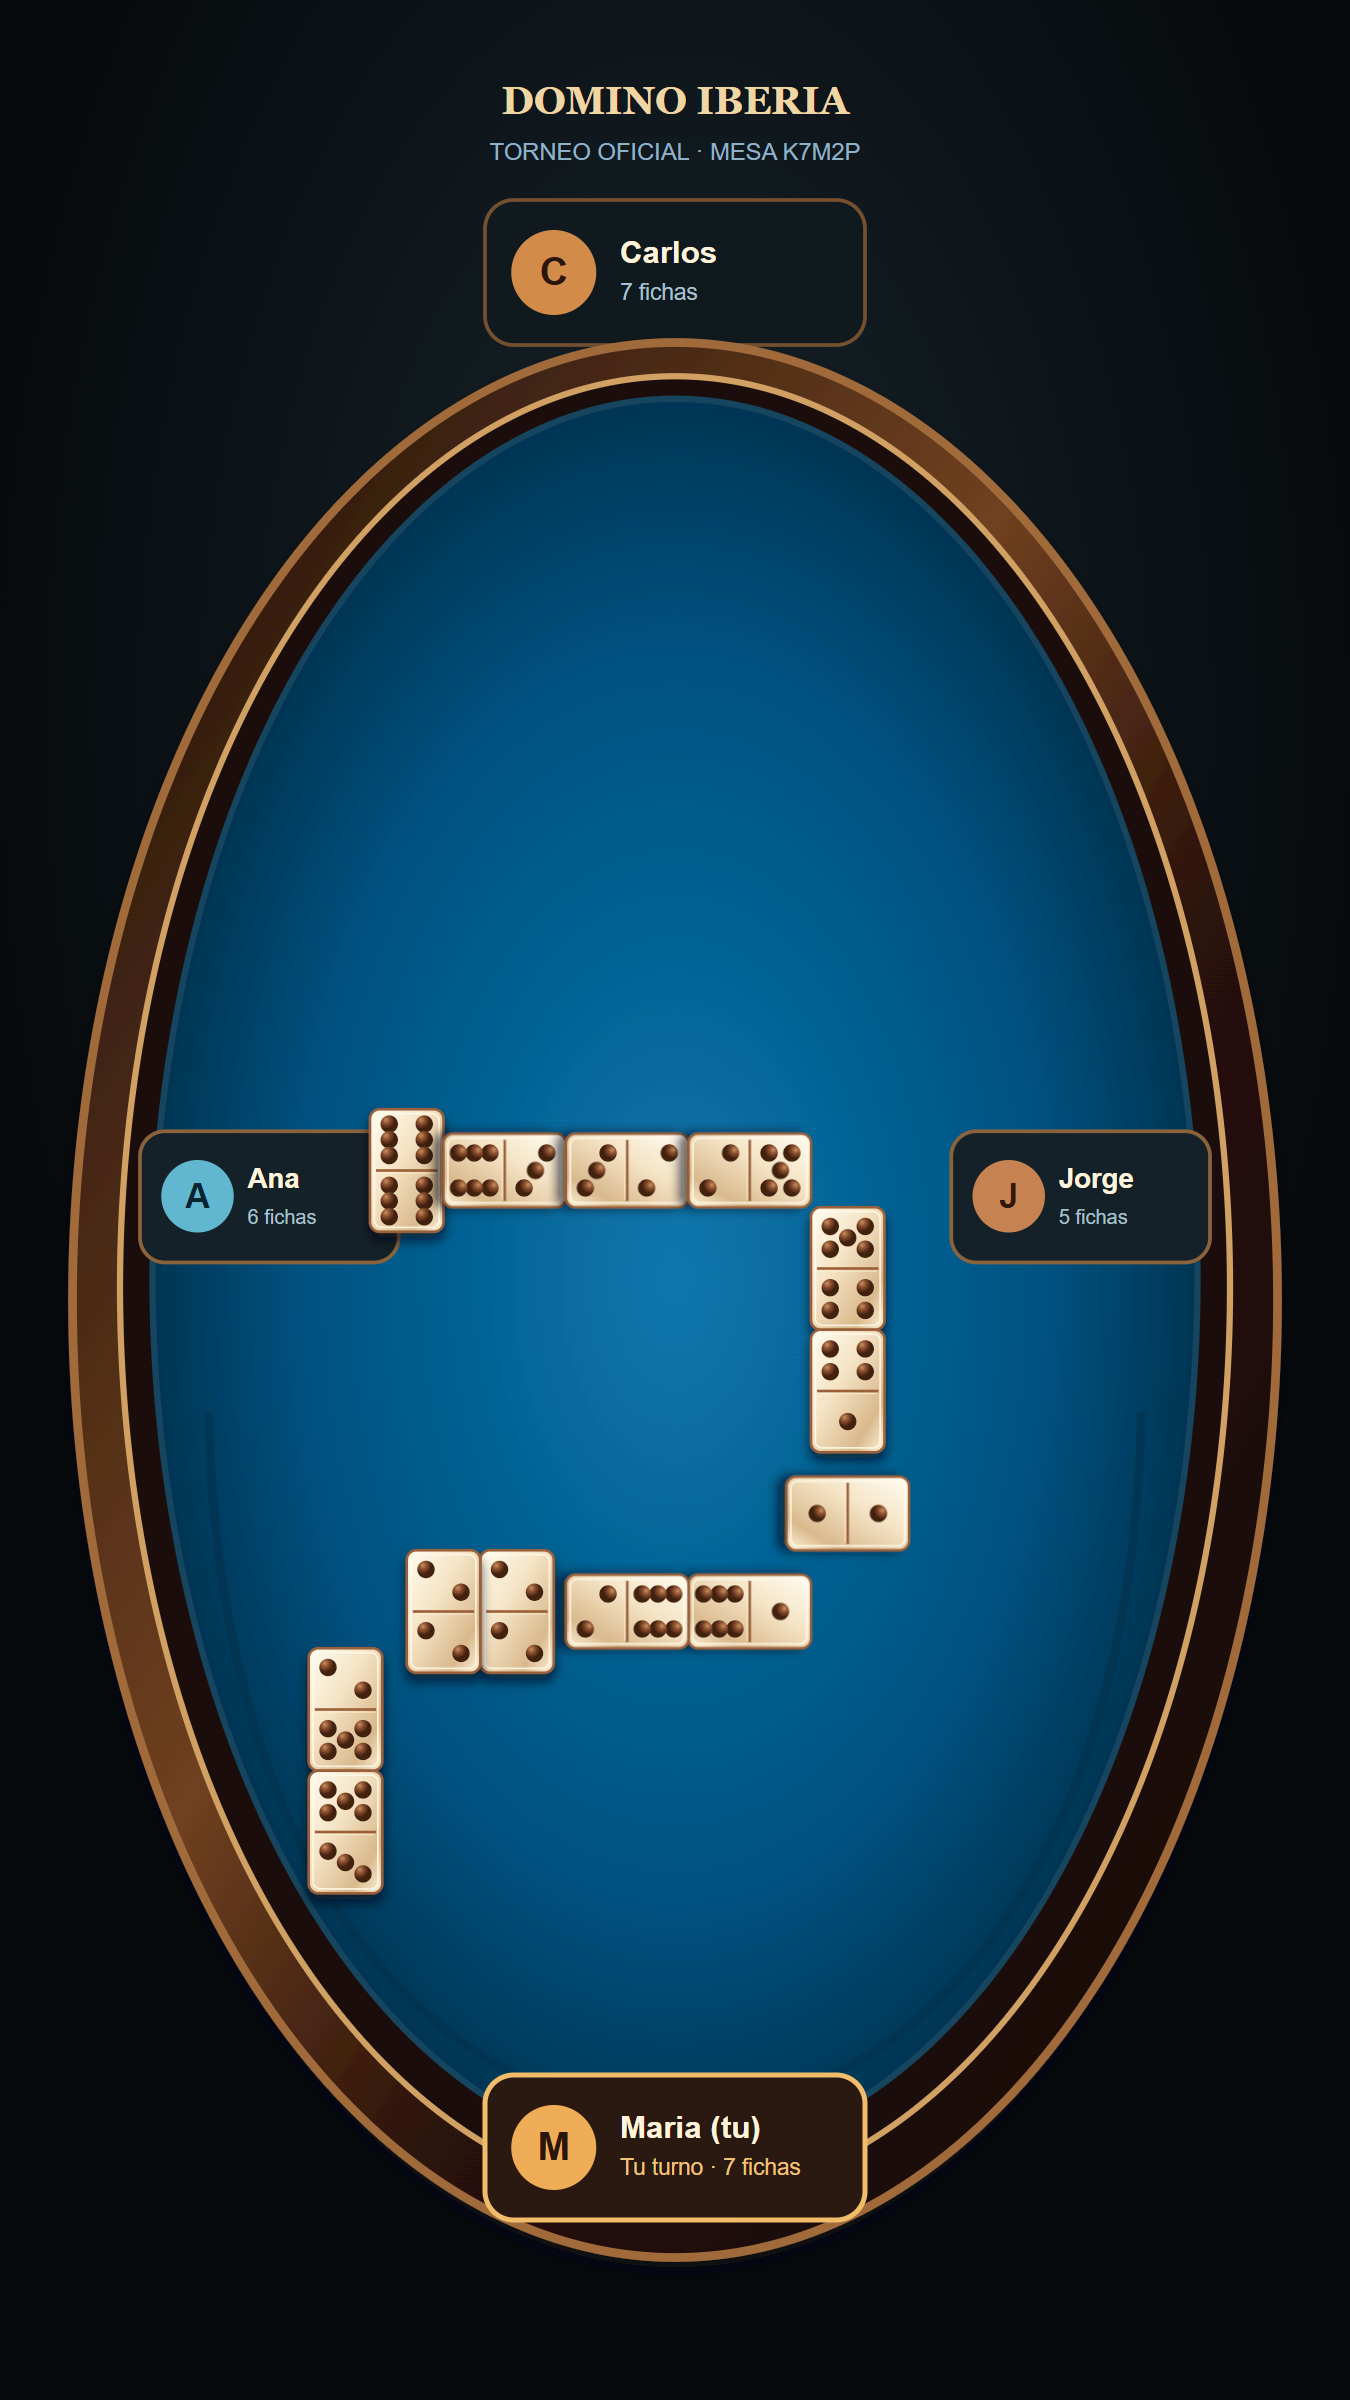
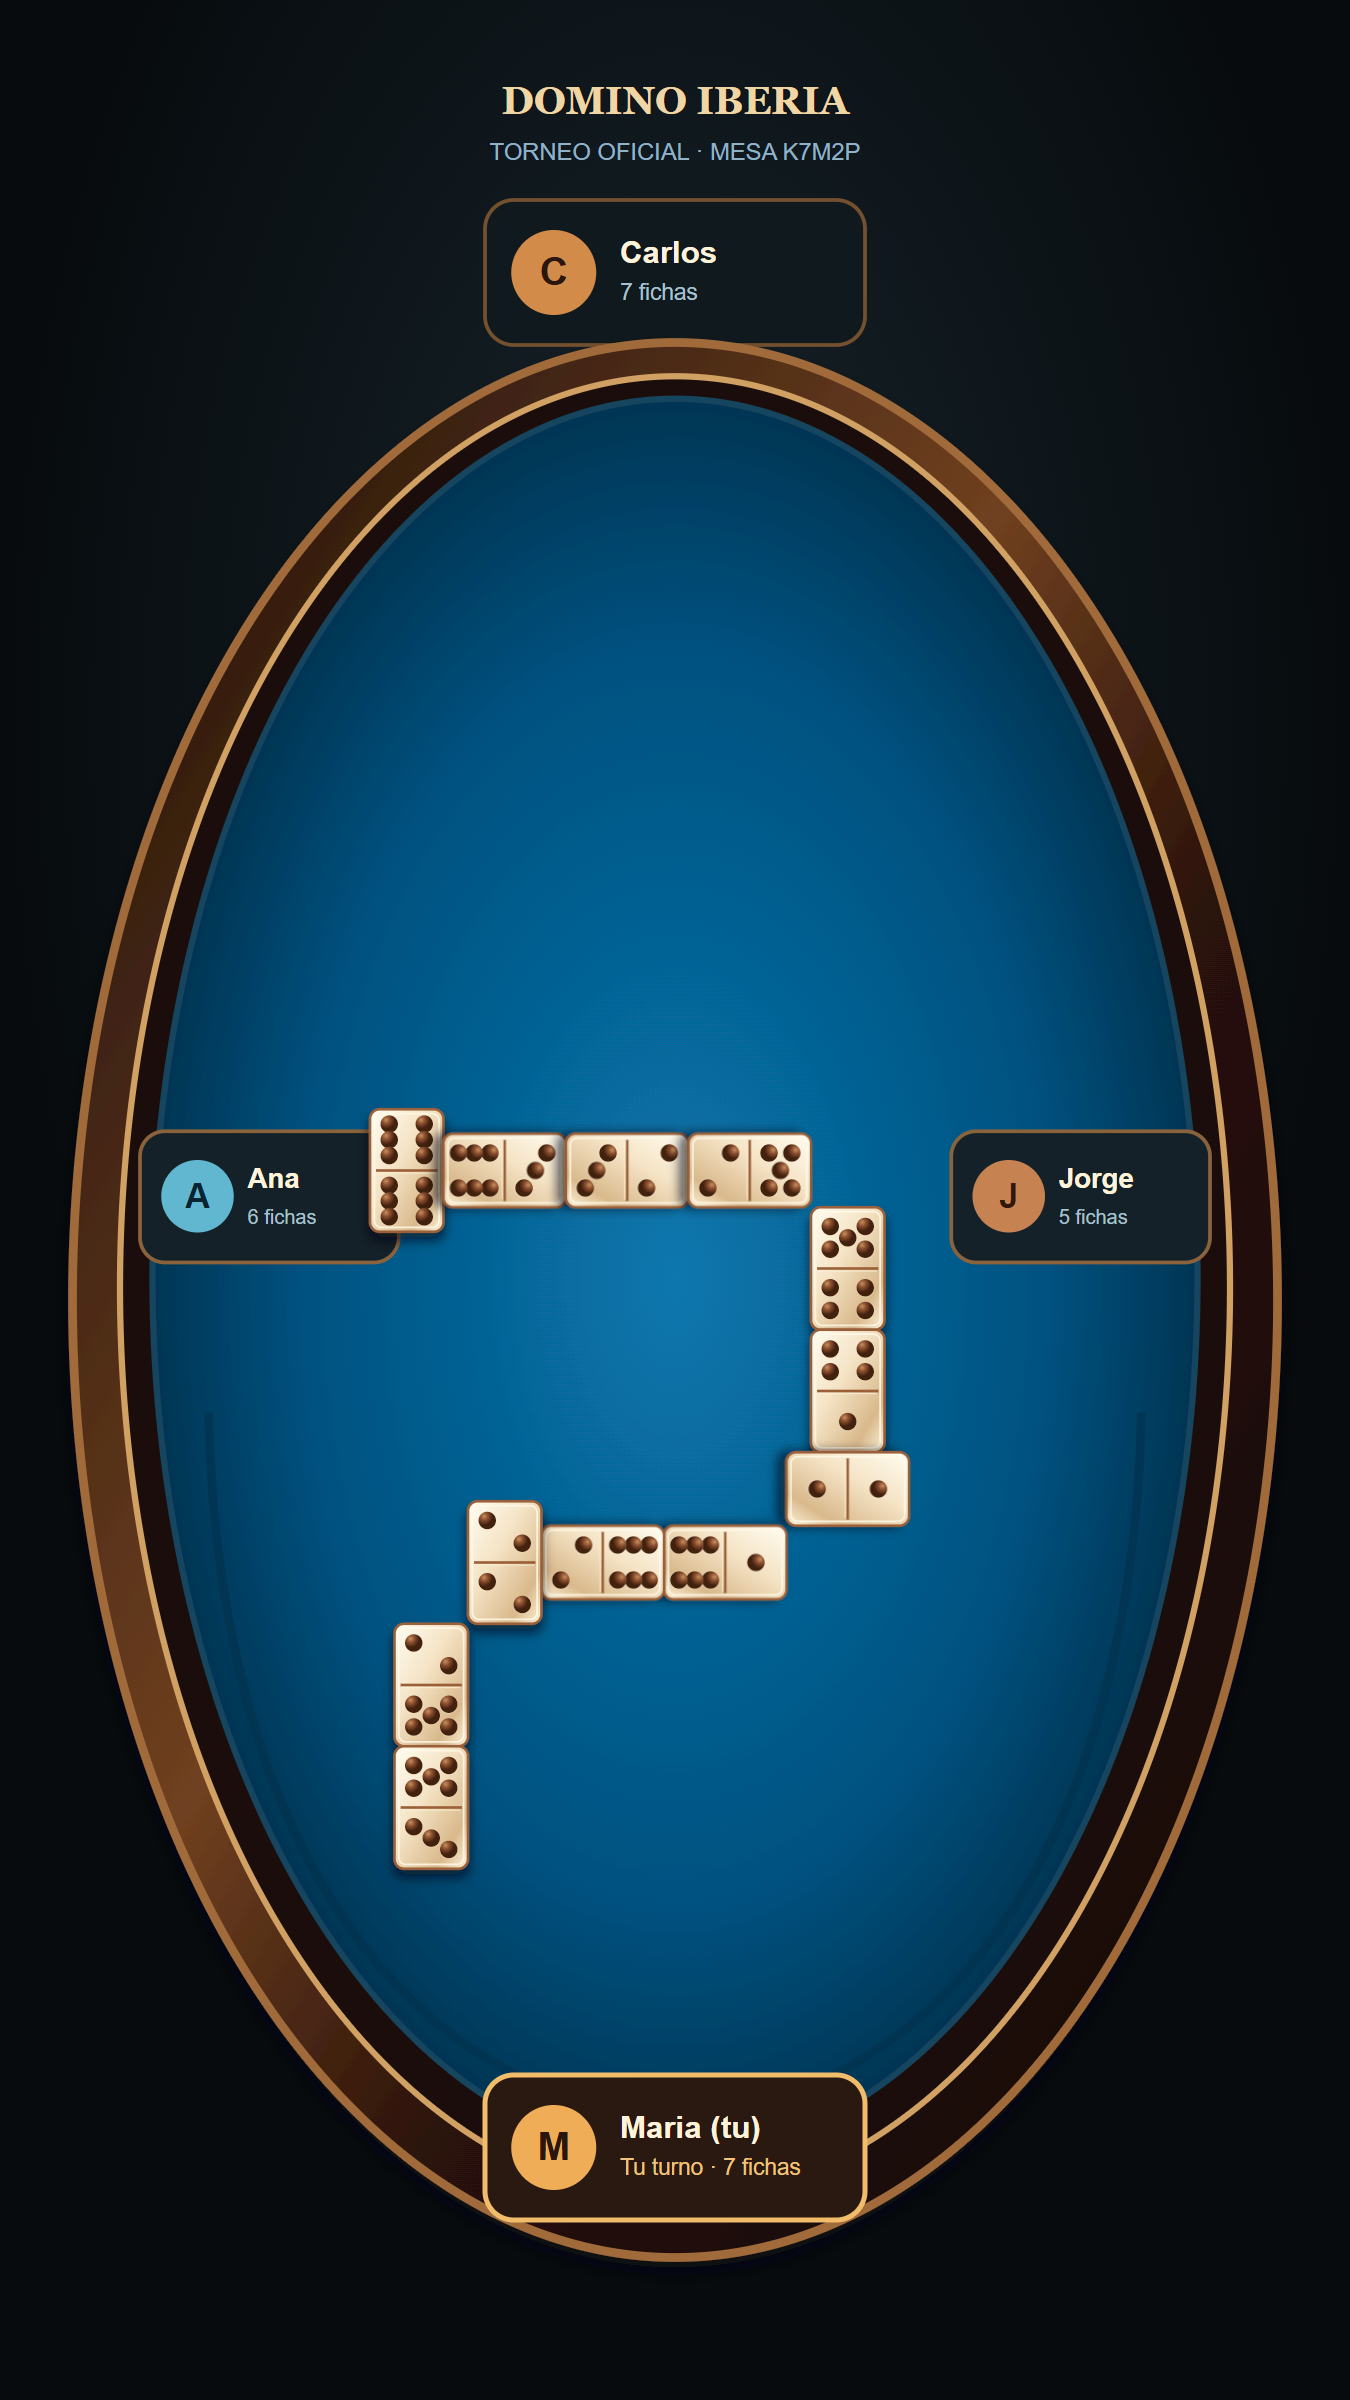
Ordena recorrido de mesa domino

Changed region(s): [[0.2178, 0.5938, 0.6844, 0.8125]]

diff --git a/frontend/src/components/Domino.css b/frontend/src/components/Domino.css
@@ -2,6 +2,8 @@
 .domino-ficha.compacta { width: 26px; min-width: 26px; height: 42px; }.domino-ficha.compacta .domino-cara i { width: 3px; height: 3px; }.domino-cadena .mesa-tramo.uno { left: calc(50% - 159px + var(--pos) * 42px); }.domino-cadena .mesa-tramo.dos { right: calc(50% - 159px + var(--pos) * 42px); }.domino-cadena .mesa-tramo.giro-derecha, .domino-cadena .mesa-tramo.giro-izquierda { top: calc(49% + 26px + var(--pos) * 42px); bottom: auto; }.domino-cadena .mesa-tramo.giro-derecha { right: calc(50% - 180px); }.domino-cadena .mesa-tramo.giro-izquierda { left: calc(50% - 206px); }
 @media (max-width: 720px) { .domino-ficha.compacta { width: 18px; min-width: 18px; height: 29px; }.domino-ficha.compacta .domino-cara i { width: 2px; height: 2px; }.domino-cadena .mesa-tramo.uno { left: calc(50% - 107px + var(--pos) * 29px); }.domino-cadena .mesa-tramo.dos { right: calc(50% - 107px + var(--pos) * 29px); }.domino-cadena .mesa-tramo.giro-derecha { right: calc(50% - 122px); }.domino-cadena .mesa-tramo.giro-izquierda { left: calc(50% - 140px); }.domino-cadena .mesa-tramo.giro-derecha, .domino-cadena .mesa-tramo.giro-izquierda { top: calc(49% + 18px + var(--pos) * 29px); } }
 .domino-cadena .mesa-tramo.uno.doble, .domino-cadena .mesa-tramo.dos.doble { transform: rotate(0deg); }.domino-cadena .mesa-tramo.giro-derecha.doble, .domino-cadena .mesa-tramo.giro-izquierda.doble { transform: rotate(90deg); }
+.domino-cadena .domino-ficha.compacta { position: absolute; width: 22px; min-width: 22px; height: 36px; margin: 0; padding: 2px; }.domino-cadena .mesa-tramo.uno { top: 130px; left: calc(50% - 144px + var(--pos) * 36px); transform: rotate(90deg); }.domino-cadena .mesa-tramo.giro-derecha { top: calc(152px + var(--pos) * 36px); right: calc(50% - 148px); left: auto; transform: rotate(0deg); }.domino-cadena .mesa-tramo.dos { top: 354px; right: calc(50% - 144px + var(--pos) * 36px); left: auto; transform: rotate(90deg); }.domino-cadena .mesa-tramo.giro-izquierda { top: calc(376px + var(--pos) * 36px); left: calc(50% - 170px); right: auto; transform: rotate(0deg); }.domino-cadena .mesa-tramo.uno.doble, .domino-cadena .mesa-tramo.dos.doble { transform: rotate(0deg); }.domino-cadena .mesa-tramo.giro-derecha.doble, .domino-cadena .mesa-tramo.giro-izquierda.doble { transform: rotate(90deg); }
+@media (max-width: 720px) { .domino-cadena .domino-ficha.compacta { width: 16px; min-width: 16px; height: 26px; padding: 1px; }.domino-cadena .mesa-tramo.uno { top: 95px; left: calc(50% - 104px + var(--pos) * 26px); }.domino-cadena .mesa-tramo.giro-derecha { top: calc(111px + var(--pos) * 26px); right: calc(50% - 107px); }.domino-cadena .mesa-tramo.dos { top: 255px; right: calc(50% - 104px + var(--pos) * 26px); }.domino-cadena .mesa-tramo.giro-izquierda { top: calc(271px + var(--pos) * 26px); left: calc(50% - 120px); } }
 .domino-tablero { min-height: 510px; padding: 0; overflow: hidden; border: 10px solid #4a210f; border-radius: 58px; background: #281209; box-shadow: inset 0 0 0 2px #a96532, 0 14px 28px rgba(0, 0, 0, .3); }.domino-mesa { min-height: 430px; border: 10px solid #1d0d07; border-radius: 48px 48px 28px 28px; background: radial-gradient(circle at 50% 45%, #075c91 0%, #03416b 55%, #022c4b 100%); box-shadow: inset 0 0 0 3px #7c3c1b, inset 0 0 40px rgba(0, 0, 0, .4); }.domino-cadena { position: absolute; inset: 0; }.domino-cadena > span { position: absolute; inset: 0; display: grid; place-items: center; color: #d8e6ec; }.domino-ficha { border-color: #d7a26c; background: linear-gradient(135deg, #fff8e9, #f0c995); box-shadow: 0 2px 4px rgba(0, 0, 0, .5), inset 0 1px 0 #fffdf5; }.domino-ficha > b { background: #bd8758; }.domino-cara i { background: radial-gradient(circle at 35% 30%, #a35d37 0 12%, #603018 35% 100%); }.domino-ficha.compacta { width: 34px; min-width: 34px; height: 54px; border-color: #d7a26c; }.domino-ficha.compacta .domino-cara i { width: 4px; height: 4px; }.domino-cadena .mesa-tramo.uno { top: 49%; left: calc(25% + var(--pos) * 5.4%); transform: rotate(90deg); }.domino-cadena .mesa-tramo.dos { top: 64%; right: calc(25% + var(--pos) * 5.4%); transform: rotate(90deg); }.domino-cadena .mesa-tramo.giro-derecha { right: 23%; top: calc(49% + var(--pos) * 8%); }.domino-cadena .mesa-tramo.giro-izquierda { left: 23%; bottom: calc(10% + var(--pos) * 8%); }.domino-asiento { position: absolute; z-index: 2; display: flex; align-items: center; gap: 8px; min-width: 148px; padding: 7px 10px; border: 2px solid #8e5734; border-radius: 13px; background: linear-gradient(145deg, #44200f, #1d0c06); color: #fff2dd; box-shadow: 0 5px 12px rgba(0, 0, 0, .45); }.domino-asiento.arriba { top: 15px; left: 50%; transform: translateX(-50%); }.domino-asiento.abajo { bottom: 15px; left: 50%; transform: translateX(-50%); }.domino-asiento.izquierda { left: 14px; top: 50%; transform: translateY(-50%); }.domino-asiento.derecha { right: 14px; top: 50%; transform: translateY(-50%); }.domino-asiento.soy-yo { border-color: #f2b868; box-shadow: 0 0 0 2px rgba(242, 184, 104, .2), 0 5px 12px rgba(0, 0, 0, .45); }.domino-asiento.turno-activo { border-color: #76d4ff; }.domino-asiento strong { display: block; font-size: 14px; }.domino-asiento span { display: block; margin-top: 2px; color: #ecc49e; font-size: 12px; }.domino-avatar { display: grid; width: 30px; height: 30px; flex: 0 0 30px; place-items: center; border-radius: 50%; background: linear-gradient(135deg, #f2c16d, #a94e2b); color: #211008; font-weight: 900; }.domino-controles { padding: 14px; background: #341507; }
 @media (max-width: 720px) { .domino-tablero { min-height: 410px; border-width: 7px; border-radius: 34px; }.domino-mesa { min-height: 340px; border-width: 6px; border-radius: 28px; }.domino-asiento { min-width: 104px; padding: 5px 7px; gap: 5px; }.domino-asiento strong { font-size: 11px; }.domino-asiento span { font-size: 10px; }.domino-avatar { width: 23px; height: 23px; flex-basis: 23px; font-size: 12px; }.domino-cadena .mesa-tramo.uno { left: calc(18% + var(--pos) * 8%); }.domino-cadena .mesa-tramo.dos { right: calc(18% + var(--pos) * 8%); }.domino-cadena .mesa-tramo.giro-derecha { right: 13%; }.domino-cadena .mesa-tramo.giro-izquierda { left: 13%; } }
 .domino-ficha { border: 2px solid #9a613a; border-radius: 9px; background: linear-gradient(135deg, #fffdf2 0%, #f5e4c6 40%, #d9b98c 78%, #fff5dc 100%); box-shadow: 0 5px 7px rgba(0, 0, 0, .5), inset 0 1px 0 #fffdf3, inset 0 0 0 2px rgba(255, 250, 232, .75); }.domino-ficha > b { height: 2px; background: linear-gradient(#8b5230, #f7e5c7); }.domino-cara i { width: 8px; height: 8px; background: radial-gradient(circle at 32% 26%, #c69060 0 12%, #8b4f2e 42%, #422010 100%); box-shadow: 0 1px 1px rgba(255, 233, 196, .7), inset 0 1px 1px rgba(46, 19, 8, .65); }.domino-ficha.compacta { width: 36px; min-width: 36px; height: 58px; border-radius: 6px; padding: 3px; }.domino-ficha.compacta .domino-cara i { width: 4px; height: 4px; }
